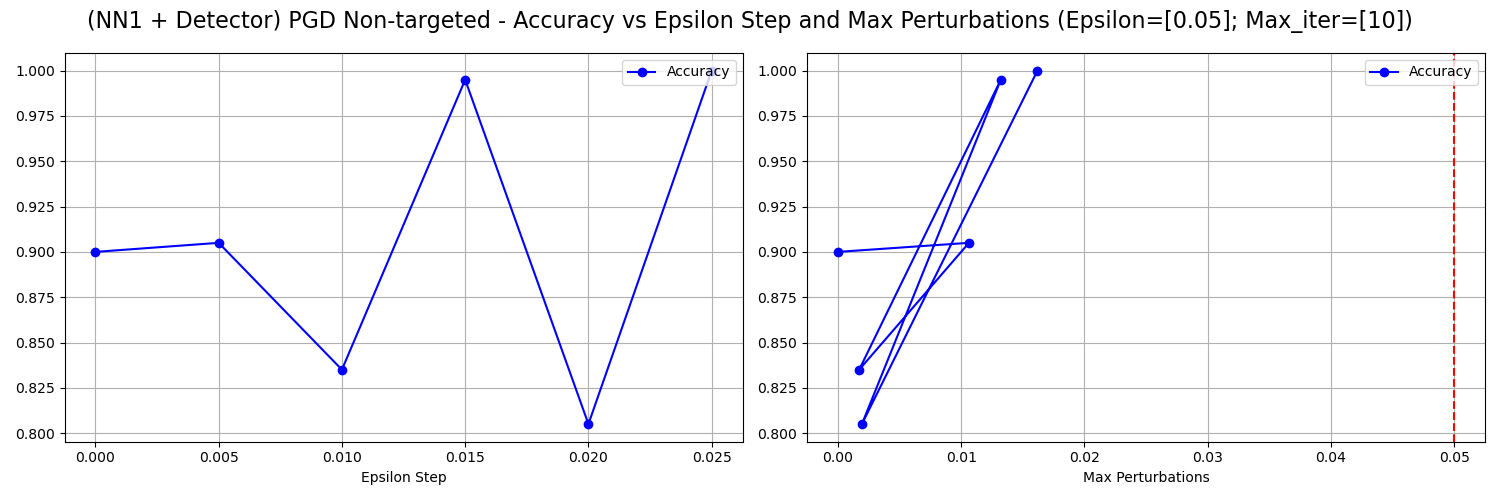
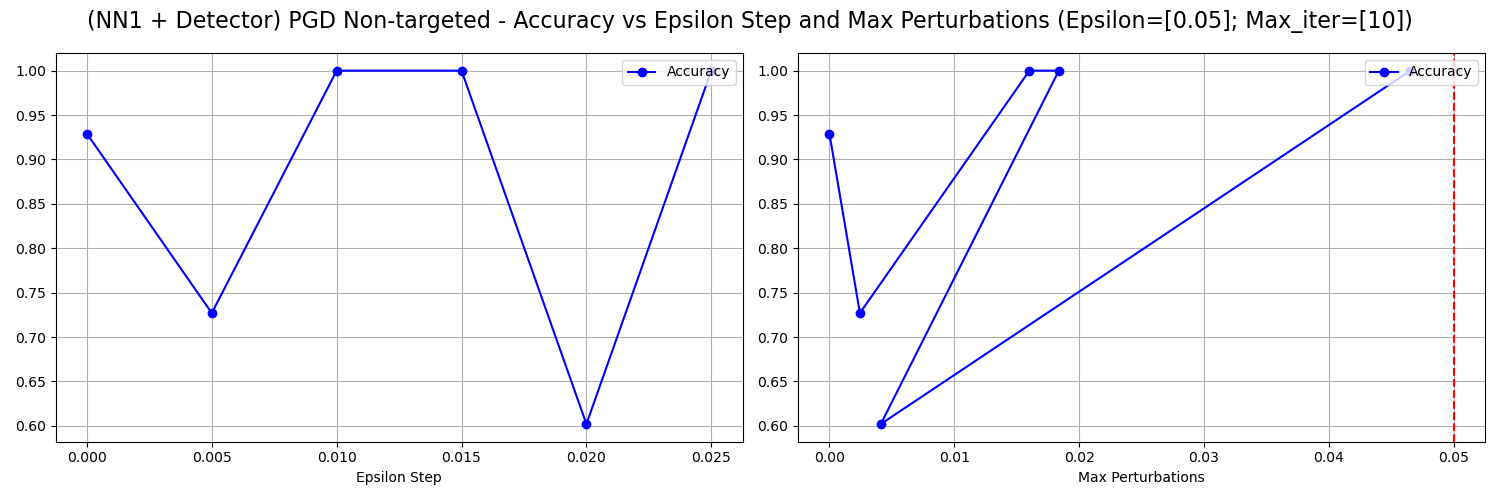
detectors3.0

diff --git a/defence.py b/defence.py
@@ -126,13 +126,16 @@ def main():
     # Setup dei classificatori
     classifierNN1= setup_classifier(device)
 
-    # Carica le immagini e le etichette del training set
-    train_set = get_train_set()
-    train_images = train_set.get_images()
-
     # Carica le immagini e le etichette del test set
     test_set = get_test_set()
     test_images, test_labels = test_set.get_images()
+
+    # Carica le immagini e le etichette del training set
+    if args.train_detectors:
+        train_set = get_train_set()
+        train_images = train_set.get_images()
+        # Divisione in train e test set 80% - 20%
+        #train_images, _, test_images, test_labels = train_test_split(test_images, test_labels, test_size=0.2)  # per fare prove veloci (800 img invece che 4k).
 
     # Calcolo dell'accuracy sulle immagini clean rispetto alle label vere
     accuracy_nn1_clean = compute_accuracy(classifierNN1, test_images, test_labels)
@@ -142,6 +145,7 @@ def main():
     os.makedirs("./models", exist_ok=True)
     #attack_types = {"fgsm", "bim", "pgd", "df", "cw"}
     attack_types = {"fgsm", "bim", "pgd"}
+    #attack_types = {"bim"}
 
     # Train or load Detectors
     detectors = {}
@@ -160,7 +164,7 @@ def main():
             x_train_adv = generate_adversarial_examples(classifier, attack_type, train_images)
             x_train_detector = np.concatenate((train_images, x_train_adv), axis=0)
             y_train_detector = np.concatenate((np.array([[1, 0]] * nb_train), np.array([[0, 1]] * nb_train)), axis=0)
-            detectors[attack_type].fit(x_train_detector, y_train_detector, nb_epochs=20, batch_size=16)
+            detectors[attack_type].fit(x_train_detector, y_train_detector, nb_epochs=20, batch_size=16, verbose=True)
             detector_classifier.model.eval()
             # Salvataggio dello state_dict del modello
             torch.save(detector_classifier.model.state_dict(), model_path)
@@ -190,16 +194,16 @@ def main():
     # Valutare detectors + classifier sui dati adversarial
     # Avvio dell'attacco selezionato
     if args.attack == "fgsm":
-        run_fgsm(classifierNN1, None, test_images, test_labels, accuracy_clean, None, args.targeted, targeted_accuracy_clean, None, target_class, detectors)
+        run_fgsm(classifierNN1, None, test_images, test_labels, accuracy_clean, None, args.targeted, targeted_accuracy_clean, None, target_class, detectors, args.threshold)
     elif args.attack == "bim":
-        run_bim(classifierNN1, None, test_images, test_labels, accuracy_clean, None, args.targeted, targeted_accuracy_clean, None, target_class, detectors)
+        run_bim(classifierNN1, None, test_images, test_labels, accuracy_clean, None, args.targeted, targeted_accuracy_clean, None, target_class, detectors, args.threshold)
     elif args.attack == "pgd":
-        run_pgd(classifierNN1, None, test_images, test_labels, accuracy_clean, None, args.targeted, targeted_accuracy_clean, None, target_class, detectors)
+        run_pgd(classifierNN1, None, test_images, test_labels, accuracy_clean, None, args.targeted, targeted_accuracy_clean, None, target_class, detectors, args.threshold)
     elif args.attack == "df":
         classifierNN1 = setup_classifier(device, classify=False)
-        run_df(classifierNN1, None, test_images, test_labels, accuracy_clean, None, detectors)
+        run_df(classifierNN1, None, test_images, test_labels, accuracy_clean, None, detectors, args.threshold)
     elif args.attack == "cw":
-        run_cw(classifierNN1, None, test_images, test_labels, accuracy_clean, None, args.targeted, targeted_accuracy_clean, None, target_class, detectors)
+        run_cw(classifierNN1, None, test_images, test_labels, accuracy_clean, None, args.targeted, targeted_accuracy_clean, None, target_class, detectors, args.threshold)
 
 
 if __name__ == "__main__":

diff --git a/nets.py b/nets.py
@@ -231,10 +231,10 @@ class AdversarialDetector(nn.Module):
 
 def get_detector(device="cpu"):
     # questo è per il fine tuning della rete
-    backbone = InceptionResnetV1(pretrained='vggface2', classify=False)
+    #backbone = InceptionResnetV1(pretrained='vggface2', classify=False)
 
     # per addestrare la rete da zero
-    #backbone = InceptionResnetV1(classify=False)
+    backbone = InceptionResnetV1(classify=False)
     
     # Sblocca tutta la backbone
     for param in backbone.parameters():

diff --git a/dataset.py b/dataset.py
@@ -139,7 +139,7 @@ class TrainSet(Dataset):
         return train_images
 
 
-def get_detectors_train_set():
+def get_train_set():
     return TrainSet()
 
 
